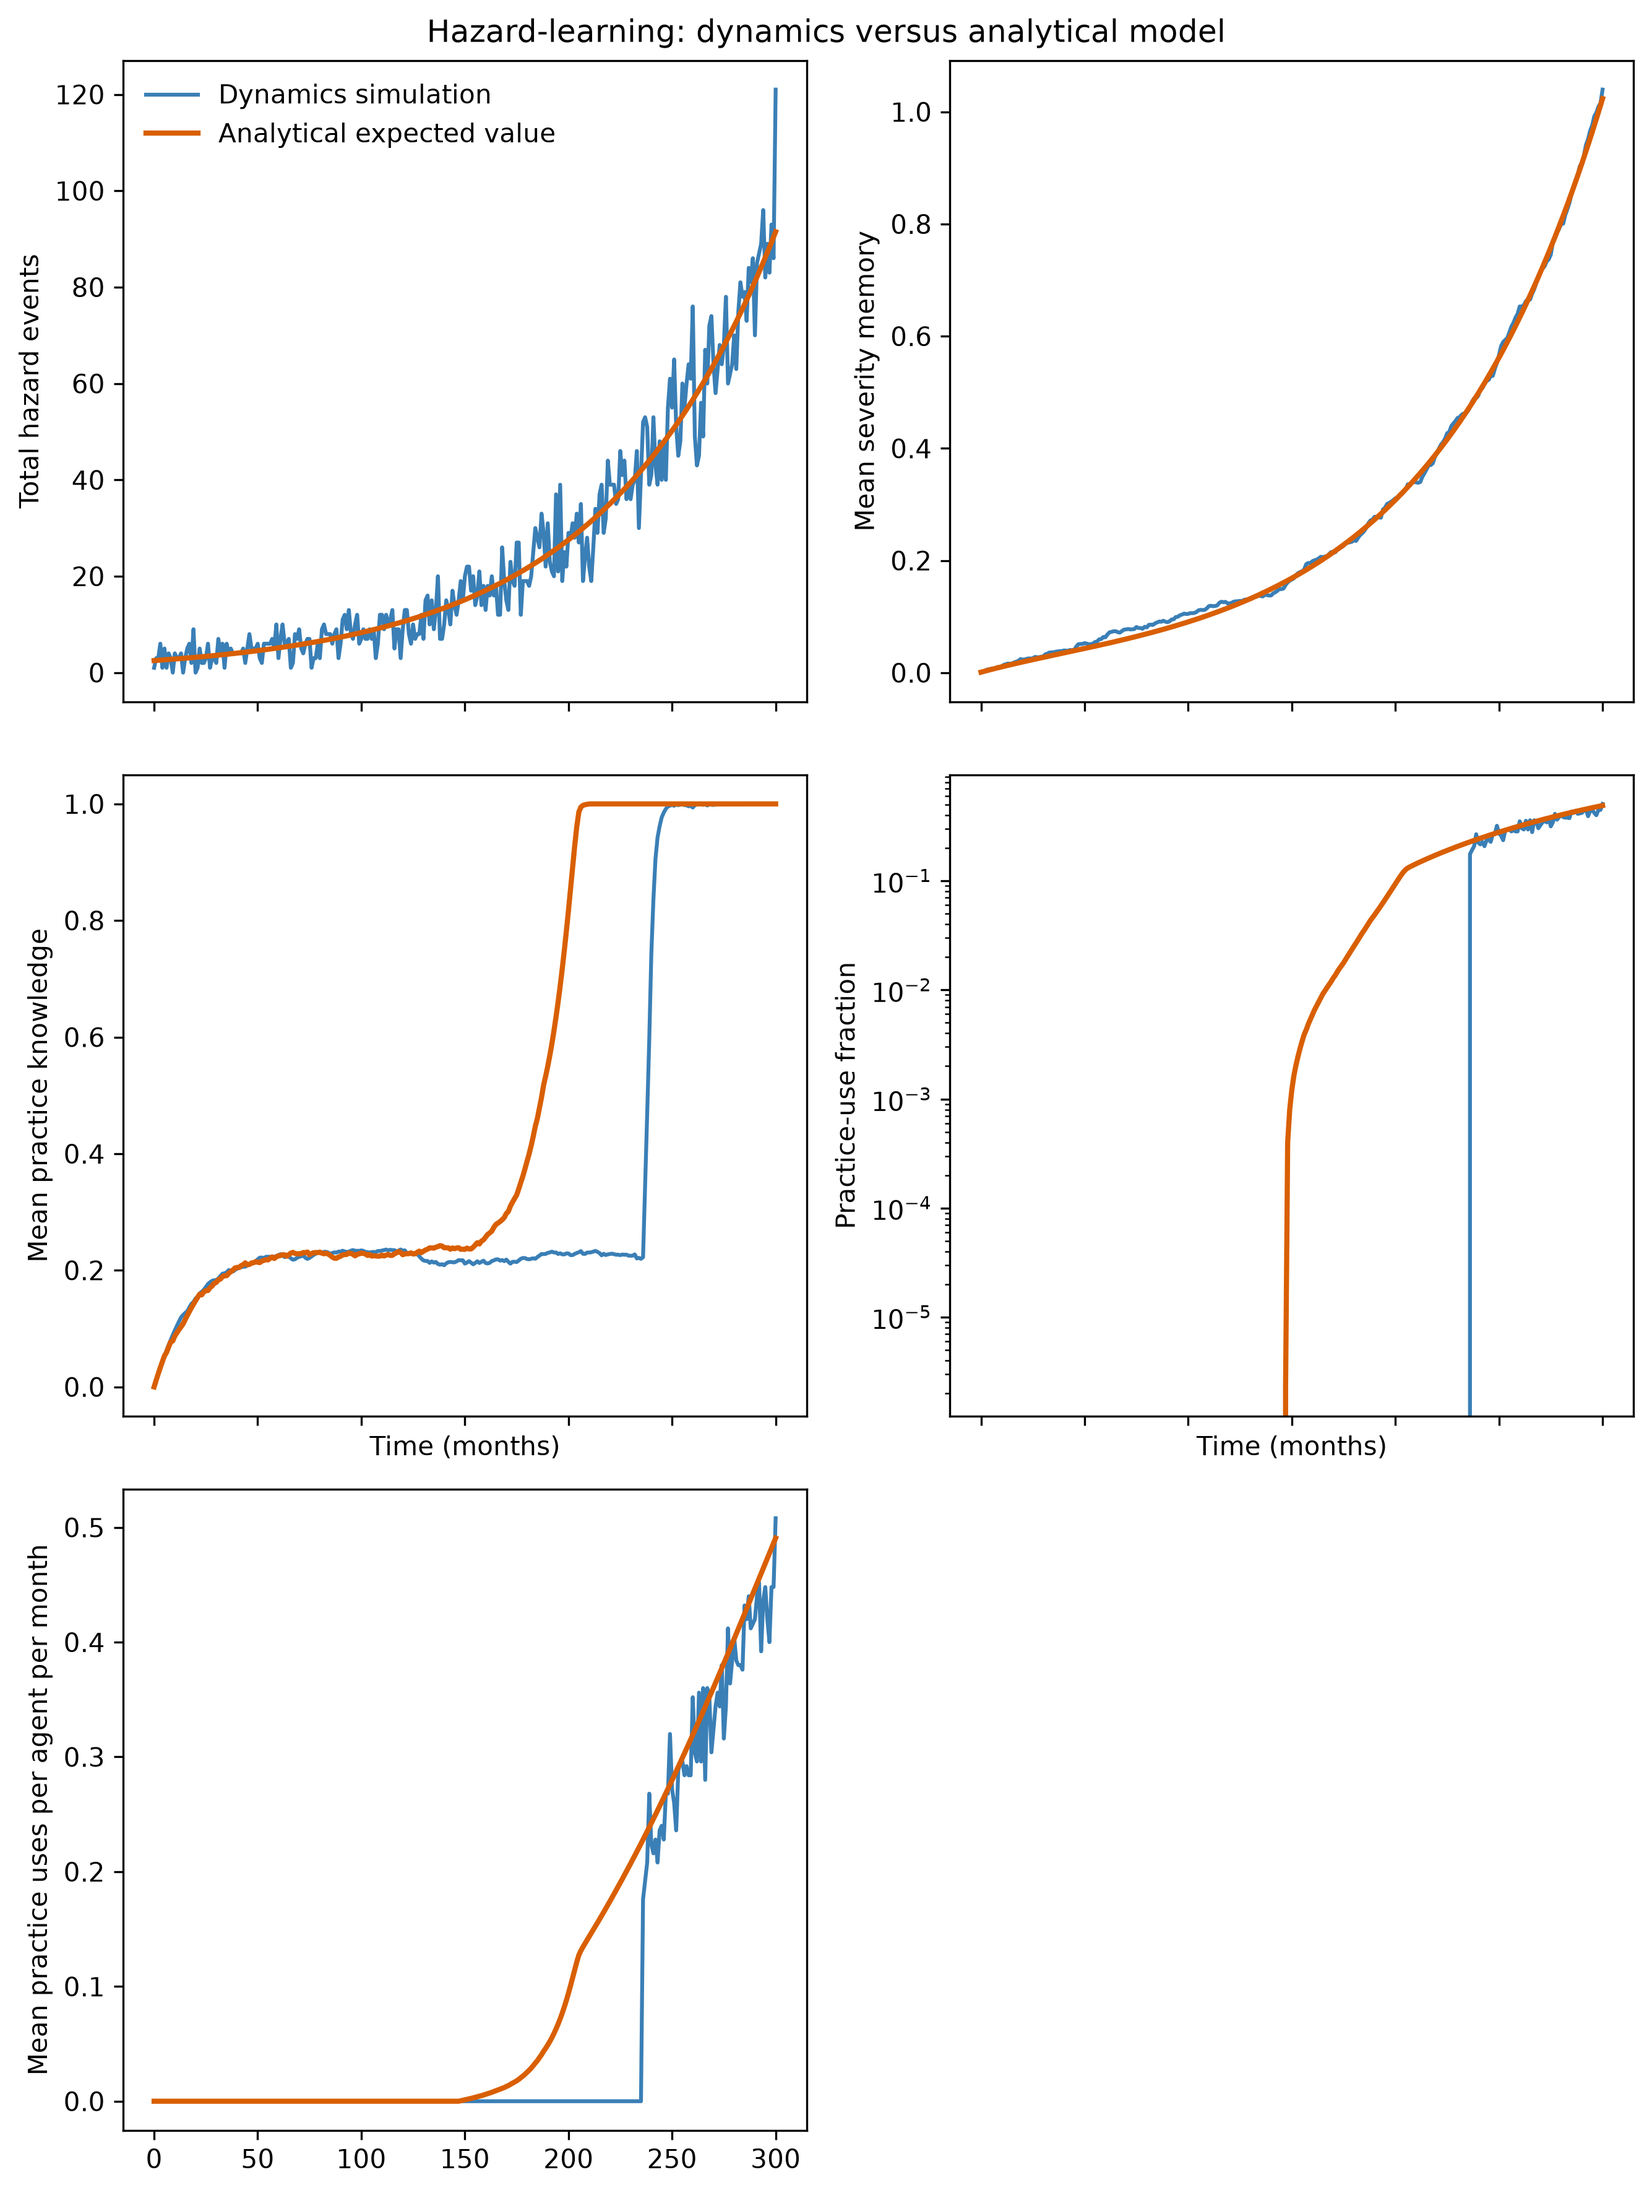
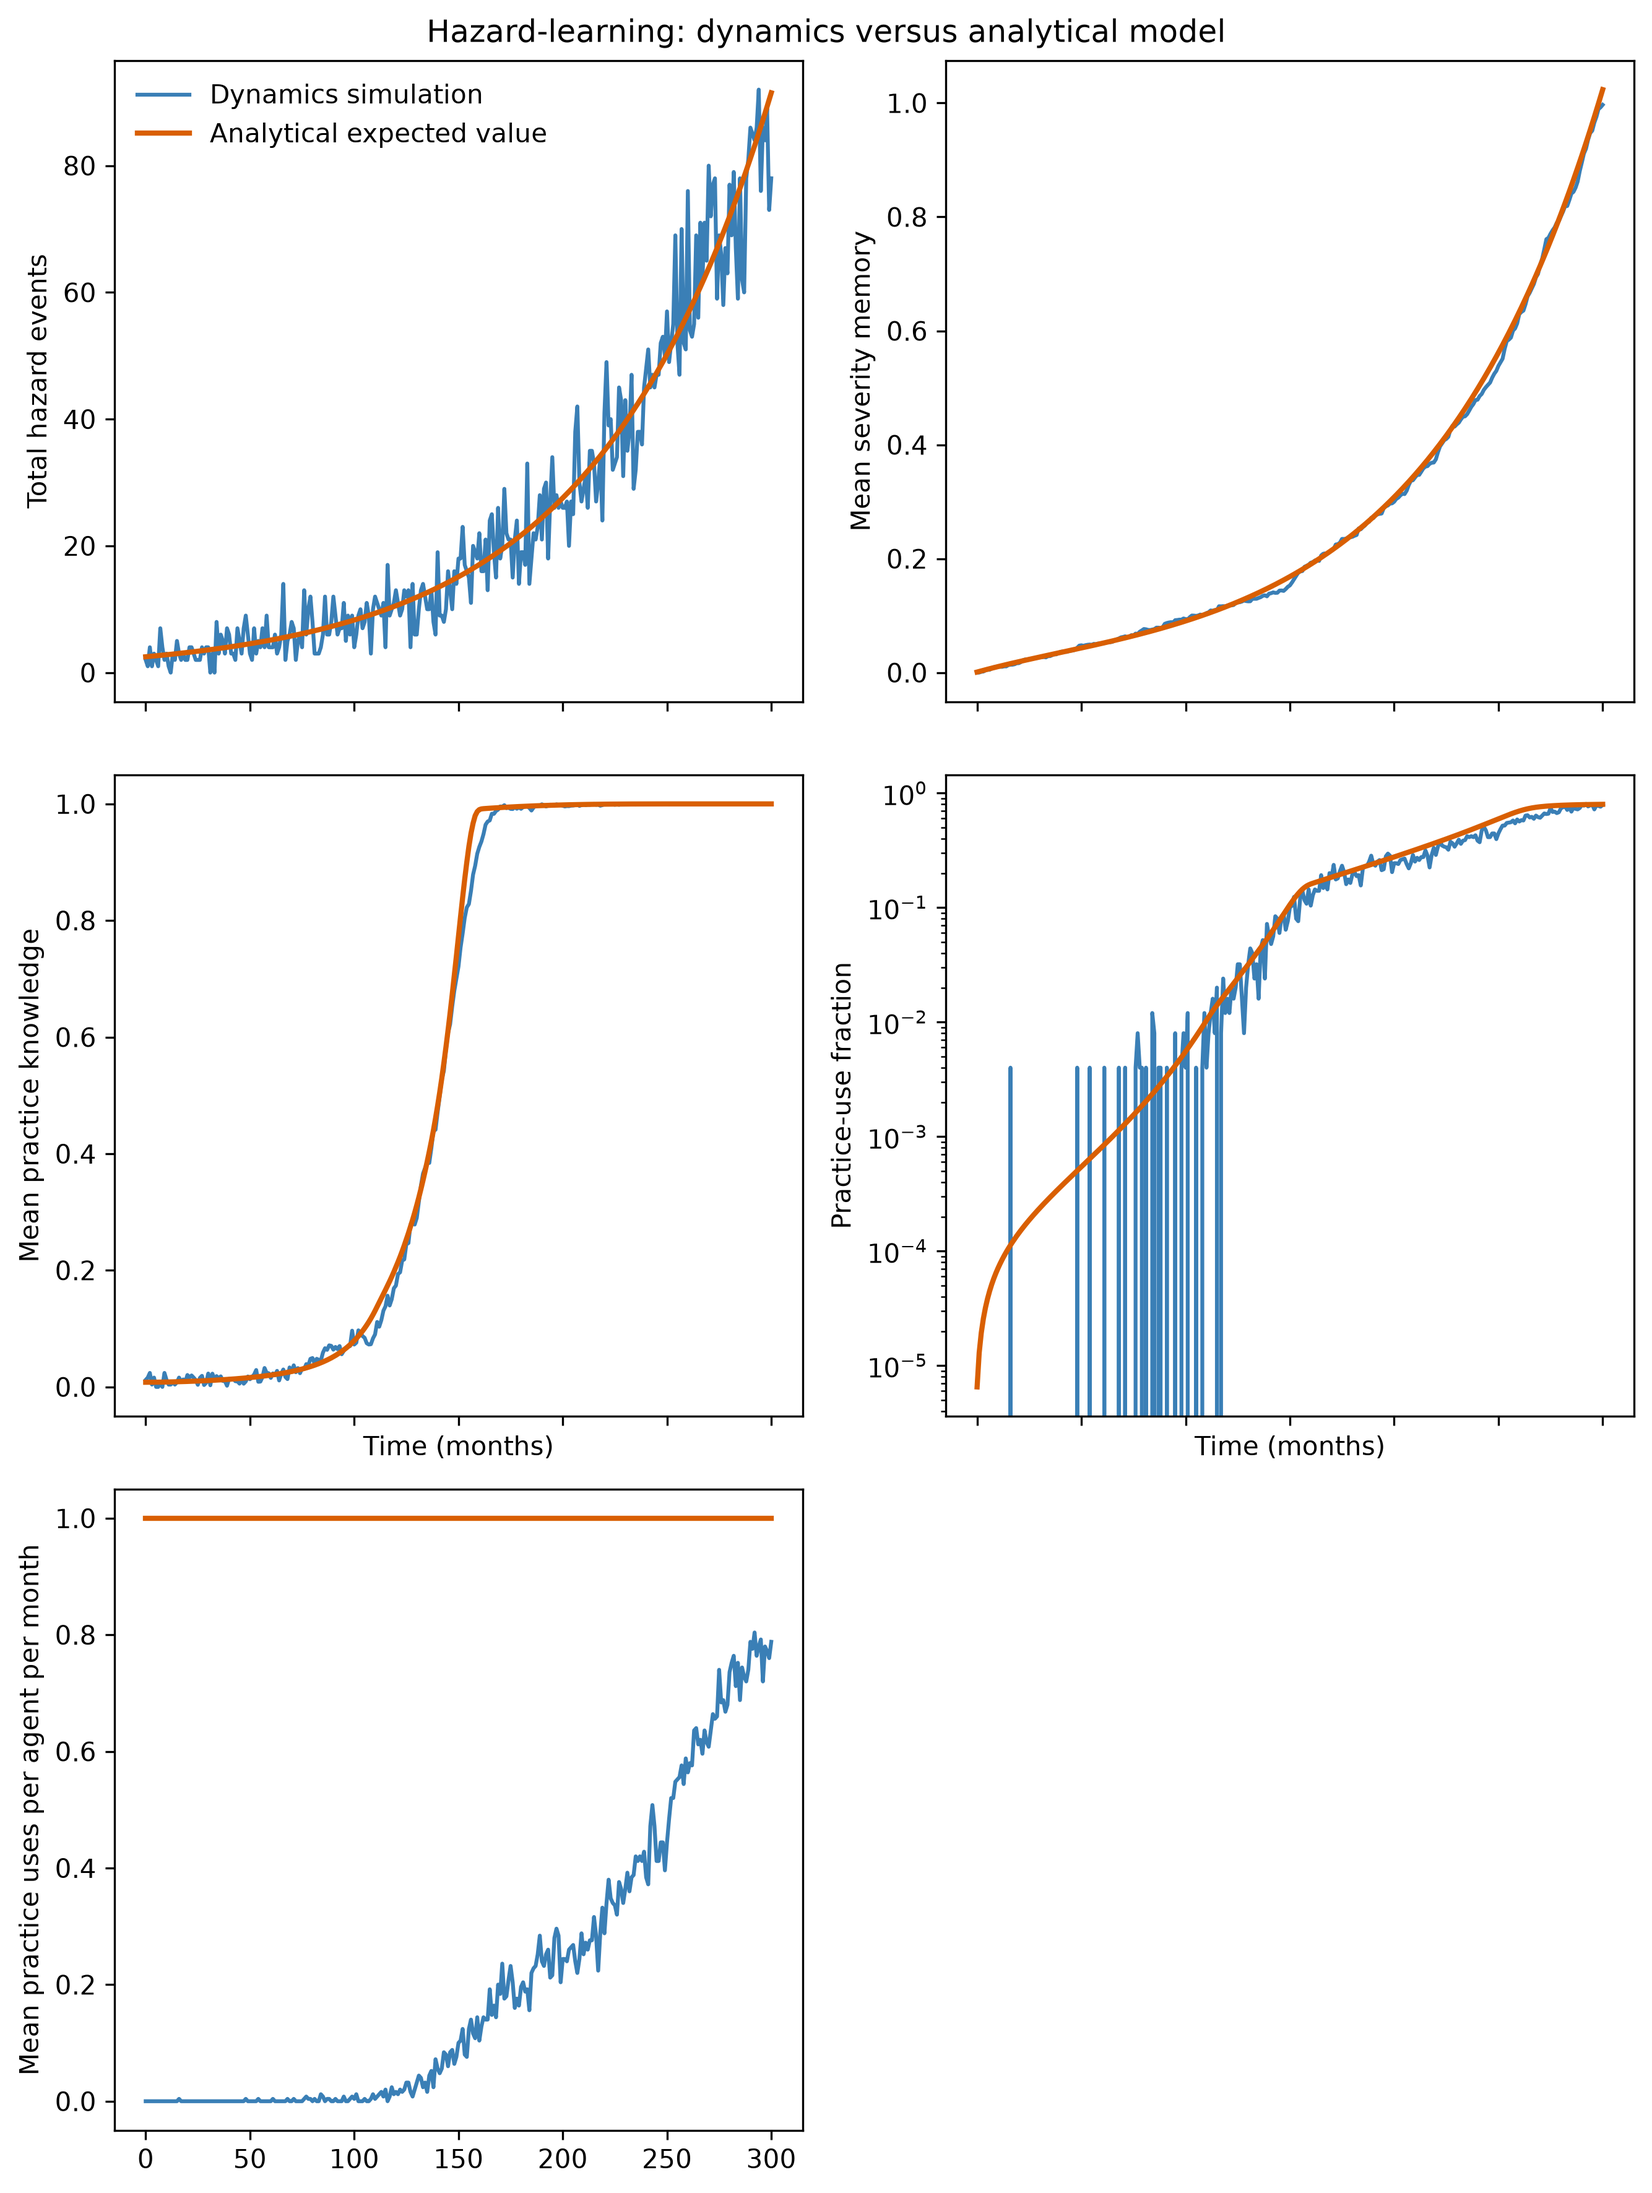
experimenting utility

diff --git a/hazard-learning_dynamics.py b/hazard-learning_dynamics.py
@@ -42,7 +42,8 @@ from config_LearnHaz import (
     PRACTICE_DECAY,
     RANDOM_SEED,
     SEVERITY_DECAY,
-    MAX_PRACTICES,
+    MAX_USES,
+    UTILITY,
 )
 
 
@@ -118,10 +119,12 @@ class AgentState:
     practice_knowledge: float = 0.0
     learning_progress: float = 0.0
     practice_used: bool = False
+    practice_uses: float = 0.0
     severity_history: List[float] = field(default_factory=list)
     memory_history: List[float] = field(default_factory=list)
     knowledge_history: List[float] = field(default_factory=list)
     practice_history: List[bool] = field(default_factory=list)
+    practice_uses_history: List[float] = field(default_factory=list)
 
 
 class HazardLearningDynamics:
@@ -158,7 +161,9 @@ class HazardLearningDynamics:
         self.mean_memory_history: List[float] = []
         self.known_fraction_history: List[float] = []
         self.mean_knowledge_history: List[float] = []
+        self.mean_practice_uses_history: List[float] = []
         self.practice_use_fraction_history: List[float] = []
+    
 
     def hazardFrec(self, time_months: int) -> float:
         """Return the hazard event frequency per agent at time in months."""
@@ -188,18 +193,21 @@ class HazardLearningDynamics:
 
     def _update_practice_dynamics(self) -> None:
         previous_use = [state.practice_used for state in self.agent_states]
+        previous_uses = [state.practice_uses for state in self.agent_states]
         for state in self.agent_states:
             neighbors = self.network[state.agent_id]
             exposed = any(previous_use[neighbor] for neighbor in neighbors)
+            seen_uses = sum(previous_uses[neighbor] for neighbor in neighbors)
             if exposed:
                 state.learning_progress = min(
-                    self.learning_times, state.learning_progress + 1.0
+                    self.learning_times, state.learning_progress + seen_uses
                 )
             else:
                 state.learning_progress *= np.exp(-self.practice_decay)
             state.practice_knowledge = min(
                 1.0, state.learning_progress / max(self.learning_times, 1.0)
             )
+            #makes sure that a minimum fraction of agents always know the practice
             if np.random.rand() < KNOWN_FRACTION:
                 state.practice_knowledge = 1.0
 
@@ -209,13 +217,40 @@ class HazardLearningDynamics:
                 hazard_response = 1.0 - np.exp(
                     -state.severity_memory / max(MEMORY_RESPONSE_SCALE * (1-self.practice_use_fraction_history[-1]), 1e-12)
                 )
-            cost_factor = np.exp(-self.practice_cost / max(COST_SENSITIVITY, 1e-12))
-            use_probability = np.clip(
-                state.practice_knowledge * hazard_response * cost_factor, 0.0, 1.0
-            )
-            state.practice_used = bool(self.rng.random() < use_probability)
+
+            if UTILITY:
+                # Implement utility-based decision-making here
+                if state.practice_knowledge < 1e-6:
+                    state.practice_used = False
+                    state.practice_uses = 0.0
+                
+                else:
+                    possible_uses = np.arange(1, MAX_USES)
+                    marginal_uses = hazard_response**possible_uses - self.practice_cost*possible_uses/max(state.practice_knowledge, 1e-6)
+                    optimal_uses = possible_uses[np.argmax(marginal_uses)]
+                    
+                    if marginal_uses[optimal_uses] > 0 and optimal_uses <= MAX_USES and optimal_uses >= 1:
+                        #print('OU', optimal_uses, 'MC', max(marginal_uses), 'K', state.practice_knowledge, 'Hr',hazard_response )
+                        state.practice_used = True
+                        state.practice_uses = int(optimal_uses)
+                    else:
+                        state.practice_used = False
+                        state.practice_uses = 0.0
+                
+            else:
+                cost_factor = np.exp(-self.practice_cost / max(COST_SENSITIVITY, 1e-12))
+                use_probability = np.clip(
+                    state.practice_knowledge * hazard_response * cost_factor, 0.0, 1.0
+                )
+                use_practice = bool(self.rng.random() < use_probability)
+                state.practice_used = use_practice
+                if use_practice:
+                    state.practice_uses = 1.0
+                else:
+                    state.practice_uses = 0.0
             state.knowledge_history.append(state.practice_knowledge)
             state.practice_history.append(state.practice_used)
+            state.practice_uses_history.append(state.practice_uses)
 
     def run_simulation(self) -> dict:
         """Run the model and return aggregate and per-agent histories."""
@@ -243,10 +278,16 @@ class HazardLearningDynamics:
             self.practice_use_fraction_history.append(
                 float(np.mean([state.practice_used for state in self.agent_states]))
             )
+        
             self.mean_knowledge_history.append(
                 float(np.mean([state.practice_knowledge for state in self.agent_states]))
             )
-            #print("Month", time_months, "Frequency", frequency, "Total events", total_events)
+            self.mean_practice_uses_history.append(
+                float(np.mean([state.practice_uses for state in self.agent_states]))
+            )
+
+            if time_months % 33 == 0:  # Print every 12 months
+                print("Month", time_months, "USES", self.mean_practice_uses_history[-1], "use frac", self.practice_use_fraction_history[-1])
 
 
         #print('LEEEENENNE', self.learning_times, '\n', self.mean_knowledge_history)
@@ -259,9 +300,10 @@ class HazardLearningDynamics:
             "hazard_frequency_history": self.hazard_frequency_history,
             "total_events_history": self.total_events_history,
             "mean_memory_history": self.mean_memory_history,
-            #"known_fraction_history": self.known_fraction_history,
+            "known_fraction_history": self.known_fraction_history,
             "mean_knowledge_history": self.mean_knowledge_history,
-            "practice_use_fraction_history": self.practice_use_fraction_history,
+            "mean_practice_uses_history": self.mean_practice_uses_history,
+            "mean_practice_use_fraction_history": self.practice_use_fraction_history,
             "agent_states": [asdict(state) for state in self.agent_states],
             "network": self.network,
         }

diff --git a/plots/plot_hazard_learning_comparison_v2.py b/plots/plot_hazard_learning_comparison_v2.py
@@ -60,9 +60,9 @@ def load_model(filename: str, module_name: str):
 def _mean_uses_from_agent_histories(results: dict) -> np.ndarray:
     """Calculate mean uses per month from per-agent histories."""
     histories = [
-        state["practice_uses_history"]
+        state["mean_practice_uses_history"]
         for state in results.get("agent_states", [])
-        if "practice_uses_history" in state
+        if "mean_practice_uses_history" in state
     ]
     if not histories:
         raise KeyError(
@@ -85,7 +85,7 @@ def simulation_metrics(results: dict) -> dict[str, np.ndarray]:
         "events": np.asarray(results["total_events_history"], dtype=float),
         "memory": np.asarray(results["mean_memory_history"], dtype=float),
         "knowledge": np.mean(np.asarray(knowledge_histories, dtype=float), axis=0),
-        "use": np.asarray(results["practice_use_fraction_history"], dtype=float),
+        "use": np.asarray(results["mean_practice_use_fraction_history"], dtype=float),
         "mean_uses": np.asarray(mean_uses, dtype=float),
     }
 
@@ -104,7 +104,7 @@ def analytical_metrics(results: dict) -> dict[str, np.ndarray]:
         "events": np.asarray(results["expected_events_history"], dtype=float),
         "memory": np.asarray(results["mean_memory_history"], dtype=float),
         "knowledge": np.asarray(results["mean_knowledge_history"], dtype=float),
-        "use": np.asarray(results["practice_use_fraction_history"], dtype=float),
+        "use": np.asarray(results["mean_practice_use_fraction_history"], dtype=float),
         "mean_uses": np.asarray(mean_uses, dtype=float),
     }
 
@@ -139,7 +139,7 @@ def plot_comparison(simulation: dict, analytical: dict):
         axis.set_ylabel(labels[metric])
         axis.grid(False)
 
-        if metric == "use":
+        if metric == "use" :#or metric == "mean_uses"
             axis.set_yscale("log")
 
     # There are five metrics, so hide the unused sixth subplot.

diff --git a/config_LearnHaz.py b/config_LearnHaz.py
@@ -7,7 +7,7 @@ TIME_STEP_MONTHS = 1
 
 # Social network. SMALL_WORLD is the default Watts-Strogatz-style graph.
 NETWORK_TYPE = "small_world"  # small_world, erdos_renyi, or complete
-NETWORK_NEIGHBORS = 8  # Even number of initial ring neighbors
+NETWORK_NEIGHBORS = 10  # Even number of initial ring neighbors
 NETWORK_REWIRE_PROBABILITY = 0.05
 NETWORK_EDGE_PROBABILITY = 0.04  # Used by erdos_renyi
 
@@ -22,14 +22,14 @@ SEVERITY_DECAY = 0.025  # Exponential decay rate per month
 
 # Practice learning and use
 KNOWN_FRACTION = 0.01 # minimum number of agents that always knows the practice
-LEARNING_TIMES = 12  # Neighbor-use exposures needed to learn the practice
+LEARNING_TIMES = 8 # Neighbor-use exposures needed to learn the practice
 PRACTICE_DECAY = 0.04 # Exponential forgetting rate without neighbor exposure
-PRACTICE_COST = 0.15 # Cost of practice adoption relative to hazard impact
-COST_SENSITIVITY = 1.0 # Sensitivity of practice adoption to cost relative to hazard impact
-MAX_PRACTICE_USES_PER_MONTH = 30
-USE_COUNT_VARIATION = 0.09  # Soft-choice scale; tune or estimate from data
+PRACTICE_COST = 0.11 # Cost of practice adoption relative to hazard impact
+COST_SENSITIVITY = 0.5 # Sensitivity of practice adoption to cost relative to hazard impact
+MAX_USES = 30 #maximum number of practice uses per month
 MEMORY_RESPONSE_SCALE = 1.0 # Scale factor for the response to hazard memory in practice use probability
 TAG = "Y"
+UTILITY = False
 
 # Reproducible default for the command-line example
 RANDOM_SEED = 123

diff --git a/hazard-learning_analytical.py b/hazard-learning_analytical.py
@@ -99,6 +99,7 @@ class HazardLearningAnalytical:
         self.mean_knowledge_history = []
         self.known_fraction_history = []
         self.practice_use_fraction_history = []
+        self.practice_uses_history = []
 
     def hazardFrec(self, time_months: int) -> float:
         """Return the hazard event frequency per agent at time in months."""
@@ -160,6 +161,7 @@ class HazardLearningAnalytical:
             self.practice_use_fraction_history.append(
                 float(np.mean(self.practice_use_probability))
             )
+            self.practice_uses_history.append(1.0)
 
         return {
             "time_history": self.time_history,
@@ -168,7 +170,8 @@ class HazardLearningAnalytical:
             "mean_memory_history": self.mean_memory_history,
             "mean_knowledge_history": self.mean_knowledge_history,
             "known_fraction_history": self.known_fraction_history,
-            "practice_use_fraction_history": self.practice_use_fraction_history,
+            "mean_practice_use_fraction_history": self.practice_use_fraction_history,
+            "mean_practice_uses_history": self.practice_uses_history,
             "expected_event_severity": self.expected_event_severity,
             "network": self.network,
         }
